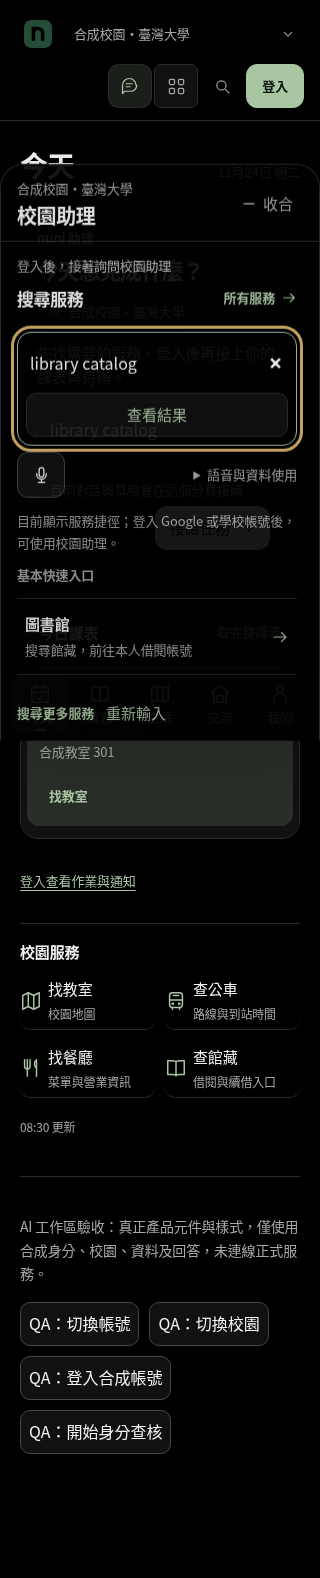
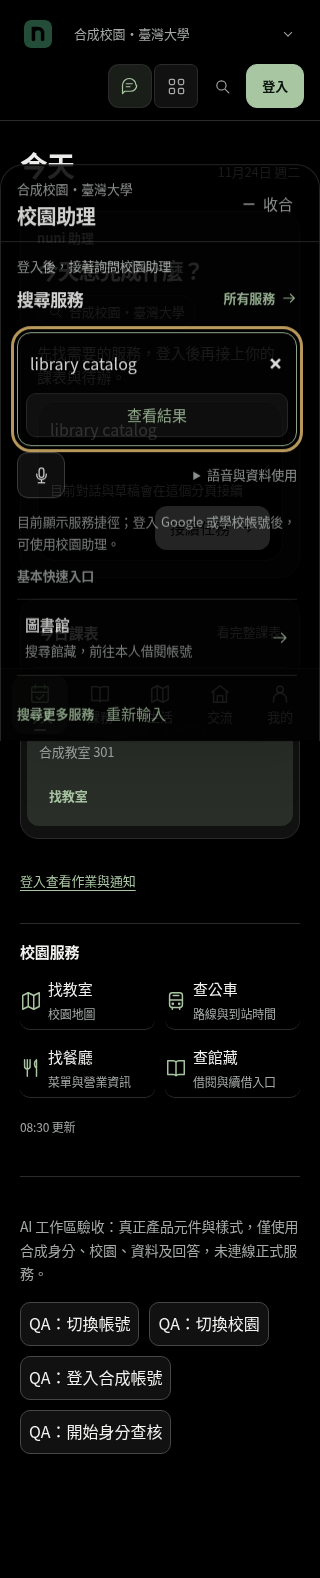
Preserve assistant resume anchors after Next navigation commits
Read the committed location hash before reacting to a route change, so a render-time stale snapshot cannot clear a login-return anchor. Cover both anchors and paused recovery with four regressions that fail on the prior implementation. Update the production guest journey for the nonmodal workspace while preserving return URLs, privacy, focus and shared-draft assertions.

Validated by 478 targeted Web tests, production build/typecheck, a real standalone return journey and refreshed six-scenario source-bound browser evidence.

diff --git a/apps/web/src/components/AssistantWorkspaceProvider.test.tsx b/apps/web/src/components/AssistantWorkspaceProvider.test.tsx
@@ -202,6 +202,23 @@ function tree(showOriginal = true) {
   );
 }
 
+// Next commits navigation with History during the layout phase. It does not
+// emit hashchange before parent passive effects inspect the new pathname.
+function NextLocationCommit({ href }: { href: string }) {
+  useLayoutEffect(() => {
+    window.history.replaceState({}, '', href);
+  }, [href]);
+  return <Page />;
+}
+
+function nextTree(href: string) {
+  return (
+    <AssistantWorkspaceProvider>
+      <NextLocationCommit href={href} />
+    </AssistantWorkspaceProvider>
+  );
+}
+
 async function openWorkspace(label = '開啟助理') {
   const trigger = screen.getByRole('button', { name: label });
   trigger.focus();
@@ -597,6 +614,48 @@ it('waits for identity checking before opening a login-return fragment', async (
   await screen.findByRole('textbox', { name: '助理輸入' });
   expect(state.resolveReplies).toHaveLength(0);
 });
+
+it.each([
+  ['#campus-assistant-entry', false],
+  ['#today-voice-entry', false],
+  ['#campus-assistant-entry', true],
+  ['#today-voice-entry', true],
+] as const)(
+  'preserves the committed Next login-return anchor %s while checking=%s',
+  async (anchor, checking) => {
+    state.pathname = '/login';
+    state.search = '';
+    state.context = null;
+    state.uid = null;
+    window.history.replaceState({}, '', '/login');
+    const view = render(nextTree('/login'));
+    expect(state.mounts).toBe(0);
+
+    state.pathname = '/life';
+    state.search = 'campus=pu';
+    state.context = 'returned-session';
+    state.nuniLoading = checking;
+    state.campusStatus = checking ? 'loading' : 'ready';
+    state.schoolId = checking ? null : 'pu';
+    const destination = '/life?campus=pu' + anchor;
+    view.rerender(nextTree(destination));
+    // No hashchange event is dispatched: this reproduces the committed URL
+    // arriving after Provider rendered with the previous empty hash snapshot.
+    expect(window.location.hash).toBe(anchor);
+    if (checking) {
+      expect(state.workspace!.open).toBe(false);
+      expect(state.mounts).toBe(0);
+      state.nuniLoading = false;
+      state.campusStatus = 'ready';
+      state.schoolId = 'pu';
+      view.rerender(nextTree(destination));
+    }
+    await screen.findByRole('textbox', { name: '助理輸入' });
+    expect(state.workspace!.open).toBe(true);
+    expect(state.mounts).toBe(1);
+    expect(state.resolveReplies).toHaveLength(0);
+  },
+);
 
 it('does not refocus a retained login-return workspace after a same-user refresh', async () => {
   window.history.replaceState({}, '', '/?campus=pu#campus-assistant-entry');

diff --git a/apps/web/src/components/AssistantWorkspaceProvider.tsx b/apps/web/src/components/AssistantWorkspaceProvider.tsx
@@ -243,14 +243,18 @@ export function AssistantWorkspaceProvider({ children }: { children: ReactNode }
   const routeKey = `${pathname ?? ''}?${params?.toString() ?? ''}`;
   const lastLocation = useRef<{ routeKey: string; hash: string; scopeKey: string } | null>(null);
   useEffect(() => {
+    // App Router may commit pushState after this render's hash snapshot. Read
+    // the committed destination before deciding to collapse, or a login-return
+    // anchor can be mistaken for a normal route change and cleared by minimize.
+    const committedHash = window.location.hash;
     const previous = lastLocation.current;
-    lastLocation.current = { routeKey, hash, scopeKey };
+    lastLocation.current = { routeKey, hash: committedHash, scopeKey };
     const changed =
       !previous ||
       previous.routeKey !== routeKey ||
-      previous.hash !== hash ||
+      previous.hash !== committedHash ||
       previous.scopeKey !== scopeKey;
-    if (isAssistantAnchor(hash)) {
+    if (isAssistantAnchor(committedHash)) {
       // Returning from login only opens the composer. It never submits a draft.
       if (!paused && (changed || !state.hasStarted)) openWorkspace();
     } else if (changed && previous && previous.routeKey !== routeKey) {

diff --git a/scripts/campus-visual-smoke.py b/scripts/campus-visual-smoke.py
@@ -1494,19 +1494,20 @@ async def check_assistant_return_journey(page):
     original = page.url
     trigger = page.get_by_role('button', name='開啟校園助理', exact=True)
     await trigger.click()
-    dialog = page.get_by_role('dialog', name='校園助理', exact=True)
-    await expect(dialog).to_be_visible()
-    field = dialog.get_by_role('searchbox', name='想做什麼？', exact=True)
+    workspace = page.get_by_role('region', name='校園助理', exact=True)
+    await expect(workspace).to_be_visible()
+    await expect(page.get_by_role('dialog', name='校園助理', exact=True)).to_have_count(0)
+    field = workspace.get_by_role('searchbox', name='想做什麼？', exact=True)
     await expect(field).to_be_focused()
     assert page.url == original, 'Opening the assistant must keep the current task URL'
     await field.fill('明天下課後想去圖書館')
     await field.press('Escape')
-    await expect(dialog).not_to_be_visible()
+    await expect(workspace).not_to_be_visible()
     await expect(trigger).to_be_focused()
     await trigger.click()
     await expect(field).to_have_value('明天下課後想去圖書館')
     await expect(finder).to_have_value('借書')
-    login = dialog.get_by_role('link', name='登入後，接著詢問校園助理', exact=True)
+    login = workspace.get_by_role('link', name='登入後，接著詢問校園助理', exact=True)
     login_href = await login.get_attribute('href')
     login_url = urlparse(login_href)
     login_query = parse_qs(login_url.query)
@@ -1520,22 +1521,45 @@ async def check_assistant_return_journey(page):
     assert '明天下課後' not in login_href, 'Typed draft must not be added to the login URL'
     await no_overflow(page)
     await page.screenshot(path=str(OUT / 'assistant-life-mobile.png'), full_page=True, animations='disabled')
+    document_start = await page.evaluate('performance.timeOrigin')
     await login.click()
     await expect(page.get_by_role('heading', name='登入', exact=True)).to_be_visible()
+    assert await page.evaluate('performance.timeOrigin') != document_start, 'Login intentionally reloads the document'
     await page.get_by_role('link', name='不登入，繼續瀏覽', exact=True).click()
-    await expect(page.get_by_role('dialog', name='校園助理', exact=True)).to_be_visible()
+    await expect(workspace).to_be_visible()
+    # Drafts live only in this document's memory; the login reload must not
+    # restore the previous private draft through storage or the return URL.
+    await expect(field).to_have_value('')
     await expect(page.get_by_role('searchbox', name='快速找服務', exact=True)).to_have_value('借書')
-    await page.get_by_role('button', name='關閉校園助理', exact=True).click()
-    await expect(page.get_by_role('dialog', name='校園助理', exact=True)).not_to_be_visible()
+    await workspace.get_by_role('button', name='收合', exact=True).click()
+    await expect(workspace).not_to_be_visible()
     assert urlparse(page.url).fragment == '', 'Closing a restored panel must clear only its resume anchor'
+    assert urlparse(page.url).path == '/life' and parse_qs(urlparse(page.url).query) == task
     # A fresh visit to the same task must not reopen the old panel.
     await page.reload(wait_until='load')
-    await expect(page.get_by_role('dialog', name='校園助理', exact=True)).to_have_count(0)
+    await expect(workspace).to_have_count(0)
+    await expect(finder).to_have_value('借書')
     await goto_path(page, '/?campus=pu')
+    home_field = page.get_by_role('textbox', name='想完成的事', exact=True)
+    await expect(home_field).to_be_visible()
+    await expect(home_field).to_have_value('')
+    await home_field.fill('查公車到站時間')
     await page.get_by_role('button', name='開啟校園助理', exact=True).click()
-    disclosure = page.locator('#today-voice-entry')
-    await expect(disclosure).to_have_attribute('open', '')
-    await expect(disclosure.get_by_role('searchbox', name='想做什麼？', exact=True)).to_be_focused()
+    await expect(workspace).to_be_visible()
+    await expect(field).to_be_focused()
+    await expect(field).to_have_value('查公車到站時間')
+    await field.fill('查公車到站時間與圖書館')
+    await workspace.get_by_role('button', name='收合', exact=True).click()
+    await expect(workspace).not_to_be_visible()
+    await expect(home_field).to_have_value('查公車到站時間與圖書館')
+    await no_overflow(page)
+    await page.screenshot(path=str(OUT / 'assistant-home-shared-draft-mobile.png'), full_page=True, animations='disabled')
+    await page.get_by_role('form', name='開始校園任務', exact=True).get_by_role(
+        'button', name='接續任務', exact=True,
+    ).click()
+    await expect(workspace).to_be_visible()
+    await expect(field).to_be_focused()
+    await expect(field).to_have_value('查公車到站時間與圖書館')
     assert urlparse(page.url).path == '/'
 
 
@@ -1641,7 +1665,7 @@ async def main():
             results.append('mobile bottom navigation leaves footer actions reachable')
             await page.set_viewport_size({'width': 390, 'height': 844})
             await check_assistant_return_journey(page)
-            results.append('assistant opens in place, keeps the draft on close, and resumes the campus task when returning from the login page')
+            results.append('nonmodal assistant preserves the directory and draft through minimize and login return, and shares the home draft in both directions')
             await goto_path(page, '/life?campus=pu')
 
             search = page.get_by_role('searchbox', name='快速找服務')

diff --git a/docs/ux/2026-11-24-ai-workspace.md b/docs/ux/2026-11-24-ai-workspace.md
@@ -16,7 +16,7 @@
 | 本輪納入 #783 | `e664a72ee80472a3d1d85598c895f89de0638b28`；含雙語服務搜尋與訪客／身分隔離修正 |
 | 同步最後 main 的整合基底 | `f74d799998b265e4d185af30dfd4b222e0c6676b`；保留 #768、#783 原始祖先，檔案樹與本機已驗證的整合結果一致 |
 
-本文件記錄上述整合提交上的工作區變更。瀏覽器證據中的 `gitHead` 是驗證當下的本機整合基底 `94f7ec74461776ca8e52e654287a41b78e1ef957`；產品與 fixture 的實際驗證版本以 355 份來源 SHA-256 為準，已逐一核對最後內容一致。最終提交、CI、合併與部署狀態應以後續 PR 的精確 head 與檢查結果為準；文件中的本機驗證不表示已發布。
+本文件記錄上述整合提交上的工作區變更。瀏覽器證據記錄驗收當下的 Git 基底；產品與 fixture 的實際驗證版本以 355 份來源 SHA-256 為準，包含未提交工作樹的修正，已逐一核對最後內容一致。最終提交、CI、合併與部署狀態應以後續 PR 的精確 head 與檢查結果為準；文件中的本機驗證不表示已發布。
 
 ## 全產品設計原則
 
@@ -37,6 +37,7 @@
 - 同校園的一般換頁、篩選與返回不清除對話。前往結果頁時收合工作區，保留來源頁的導覽條件；再次打開能接續。
 - inline 對話把問題放在主要位置，只留一個工作情境選單；完整雲端資料說明放在可展開設定內，同意勾選保持可見。既有權限、待確認卡片、草稿保護、停止、重試與完整頁面流程繼續使用原引擎。
 - 訪客沿用校園服務搜尋；不把公開服務入口假裝成私人課務查詢。服務搜尋的草稿可與首頁接續，工作區草稿不另寫入服務目錄的返回紀錄。
+- 登入返回使用已提交網址的錨點判斷是否重開工作區，避免 App Router 更新早於 hash 訂閱時把返回意圖清掉。登入的完整頁面跳轉會清空記憶體草稿；返回仍保留服務分類／搜尋條件並開啟助理。
 
 ### Mobile：Today 的主要任務入口
 
@@ -159,22 +160,23 @@ fixture 使用實際 Provider、首頁、頁首、TodayCampusEntry、Conversatio
 
 ### 本輪驗證紀錄
 
-以下為最後整合工作樹的本機驗證。Web 474 項是一次執行的去重結果；Provider 與真實 Conversation 的最後重跑都是其中子集，不另加總。地圖是另一個回歸批次，亦不與其他批次相加宣稱整個產品的測試總數。提交後的 GitHub CI 與審查仍須對應最後 head。
+以下為最後整合工作樹的本機驗證。Web 478 項是一次執行的去重結果；Provider 與真實 Conversation 的最後重跑都是其中子集，不另加總。地圖是另一個回歸批次，亦不與其他批次相加宣稱整個產品的測試總數。提交後的 GitHub CI 與審查仍須對應最後 head。
 
 | 批次 | 已回報結果 | 證據限制 |
 | --- | --- | --- |
-| Web 工作區與直接相關回歸 | 18 檔、474 tests 通過，0 skipped | Node 22.23.5、`maxWorkers=2`，單次去重執行 |
-| Provider 最後重跑 | 32／32 通過 | 最後 callback 依賴與測試寫法調整後重跑；屬於上述子集 |
+| Web 工作區與直接相關回歸 | 18 檔、478 tests 通過，0 skipped | Node 22.23.5、`maxWorkers=2`，單次去重執行 |
+| Provider 與登入返回回歸 | 36／36 通過 | 包含 4 個 Next 導覽提交時序案例；隔離載入舊版時 4 個皆失敗，新版通過，屬於上述子集 |
 | 真實工作區 Conversation 最後重跑 | 7／7 通過 | 包含同 session 恢復不搶焦點、遲來回覆，以及待確認卡片換頁後不重送；傳輸仍為合成資料 |
 | Mobile 入口回歸 | 91 tests 通過 | 原生元件測試，不等於實機驗收 |
 | 既有地圖與相關回歸 | 192 tests 通過 | 獨立回歸批次，不表示所有學校資料與真實導航已驗證 |
 | Web TypeScript 與 production build | 最後 `next build` exit 0，型別檢查及路由產生完成 | 不等於正式部署或真實登入／後端驗收 |
 | 變更 Web 檔靜態檢查 | 16 個變更檔 ESLint exit 0、0 errors；diff whitespace 檢查通過 | `CampusProviders` 有 2 個既有 warnings，未宣稱零警告 |
 | Chromium 真實元件 fixture | 6／6 情境、36 個流程檢查通過，30 張截圖 | 合成身分與傳輸；不代表 Next server、真後端、Safari 或原生裝置 |
+| 正式建置的助理返回旅程 | `campus-visual-smoke.py` 中完整返回流程通過，page errors 0 | 使用真正 Next standalone 與合成服務；驗證返回、網址／分類、重載清稿、首頁雙向草稿及焦點，不代表正式帳號登入或全部服務；本機整份 campus-visual 在未修改的離線模擬遇到版本差異，保留原斷言並交由 CI 版本驗證 |
 
-瀏覽器六個情境分別為 1440px 桌面淺色、390px 手機淺色、320px 深色、320px／200% 文字、系統減少動態且站內旗標關閉，以及站內減少動態且系統無偏好。全部沒有 console warning／error、page error、非預期／外部網路或水平溢位。355 份來源的 SHA-256 在執行前後及最後複核一致，兩份 React／DOM runtime manifest 也一致。
+瀏覽器六個情境分別為 1440px 桌面淺色、390px 手機淺色、320px 深色、320px／200% 文字、系統減少動態且站內旗標關閉，以及站內減少動態且系統無偏好。全部沒有 console warning／error、page error、非預期／外部網路或水平溢位。355 份來源的 SHA-256 在執行前後及最後複核一致，兩份 React／DOM runtime manifest 也一致。本機工具版本為 Playwright 1.56／Chromium 141；CI 工作流固定 Playwright 1.57，遠端結果須依最後 head 另行核對。
 
[2 lines of base64/hex data omitted]
 
 可隨原始碼審閱的畫面：[桌面首頁](evidence/ai-workspace-20261124/desktop-home.png)、[手機回答與草稿](evidence/ai-workspace-20261124/phone-answer.png)、[320px 深色訪客服務搜尋](evidence/ai-workspace-20261124/small-dark-guest-search.png)。畫面保留合成資料與未連正式服務的標示。
 
